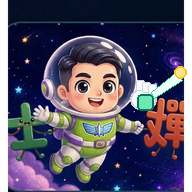
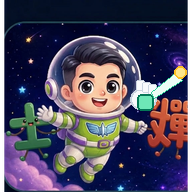
fix: 裁走 hero 內框邊，海報貼邊填滿圓角框
原圖自帶圓角內框同 letterbox，放喺 CSS 圓角容器會見雙重黑邊。
新增 chinese-hero-poster.jpg 作原圖；顯示用 857×467 裁切；
shooter 改由 poster 裁剪。

diff --git a/index.html b/index.html
@@ -10,7 +10,7 @@
   <link rel="preconnect" href="https://fonts.googleapis.com" />
   <link rel="preconnect" href="https://fonts.gstatic.com" crossorigin />
   <link href="https://fonts.googleapis.com/css2?family=Fredoka:wght@500;600;700&family=Noto+Sans+TC:wght@500;700;900&display=swap" rel="stylesheet" />
-  <link rel="stylesheet" href="./css/styles.css?v=20260831p" />
+  <link rel="stylesheet" href="./css/styles.css?v=20260901a" />
   <link rel="stylesheet" href="./css/phonics.css?v=20260815d" />
   <link rel="stylesheet" href="./css/math.css?v=20260811j" />
 </head>
@@ -37,7 +37,7 @@
 
       <div class="hero-home">
         <div class="chinese-hero" aria-hidden="true">
-          <img src="./assets/chinese-hero.jpg?v=20260831p" alt="" width="904" height="514" decoding="async" fetchpriority="high" />
+          <img src="./assets/chinese-hero.jpg?v=20260901a" alt="" width="857" height="467" decoding="async" fetchpriority="high" />
         </div>
         <p class="hero-sub">太空戰士，出發認字、字母同數理！</p>
         <div class="btn-row">

diff --git a/css/styles.css b/css/styles.css
@@ -254,14 +254,15 @@ body::before {
 
 .chinese-hero {
   width: min(100%, 720px);
-  aspect-ratio: 904 / 514;
+  aspect-ratio: 857 / 467;
   margin: 0;
   border-radius: 24px;
   overflow: hidden;
   border: none;
-  background: transparent;
+  background: #0a1628;
   box-shadow: var(--shadow);
   flex-shrink: 0;
+  line-height: 0;
 }
 
 .chinese-hero img {
@@ -269,8 +270,7 @@ body::before {
   width: 100%;
   height: 100%;
   object-fit: cover;
-  object-position: center 42%;
-  vertical-align: middle;
+  object-position: center center;
 }
 
 .hero-visual {

diff --git a/scripts/crop-chinese-hero.py b/scripts/crop-chinese-hero.py
@@ -1,0 +1,28 @@
+#!/usr/bin/env python3
+"""Crop display hero from full poster (removes letterbox + inner frame border)."""
+
+from __future__ import annotations
+
+from pathlib import Path
+
+from PIL import Image
+
+ROOT = Path(__file__).resolve().parents[1]
+POSTER = ROOT / "assets" / "chinese-hero-poster.jpg"
+OUT = ROOT / "assets" / "chinese-hero.jpg"
+
+# Inset from full poster (1100×640) to colourful art edge-to-edge
+CROP = (139, 120, 996, 587)  # L, T, R exclusive, B exclusive
+
+
+def main() -> None:
+    im = Image.open(POSTER).convert("RGB")
+    L, T, R, B = CROP
+    cropped = im.crop((L, T, R, B))
+    OUT.parent.mkdir(parents=True, exist_ok=True)
+    cropped.save(OUT, quality=92, optimize=True)
+    print(f"Wrote {OUT} ({cropped.size[0]}×{cropped.size[1]})")
+
+
+if __name__ == "__main__":
+    main()

diff --git a/scripts/crop-ranger-shooter.py b/scripts/crop-ranger-shooter.py
@@ -8,7 +8,7 @@ from pathlib import Path
 from PIL import Image, ImageDraw, ImageOps
 
 ROOT = Path(__file__).resolve().parents[1]
-SRC = ROOT / "assets" / "chinese-hero.jpg"
+SRC = ROOT / "assets" / "chinese-hero-poster.jpg"
 OUT = ROOT / "assets" / "space-ranger-shooter.png"
 SIZE = 192
 

diff --git a/assets/CREDITS.md b/assets/CREDITS.md
@@ -2,7 +2,8 @@
 
 | 檔案 | 用途 |
 |------|------|
-| `chinese-hero.jpg` | 主頁任務海報：「太空戰士」四字同人仔太空衣（家庭提供／原創插畫；非迪士尼／彼思角色名或素材） |
+| `chinese-hero-poster.jpg` | 主頁海報原圖（完整畫布；供裁剪腳本用） |
+| `chinese-hero.jpg` | 主頁顯示用海報（裁走 letterbox／內框邊） |
 | `space-ranger-shooter.png` | 玩法頁太空戰士（鏡像裁剪 + 程式合成激光槍；由主頁海報衍生） |
 | `chinese-space-bg.jpg` | 認字各屏全屏背景：深海軍藍＋淡紫 nebula，遠景漢字星塵 |
 
